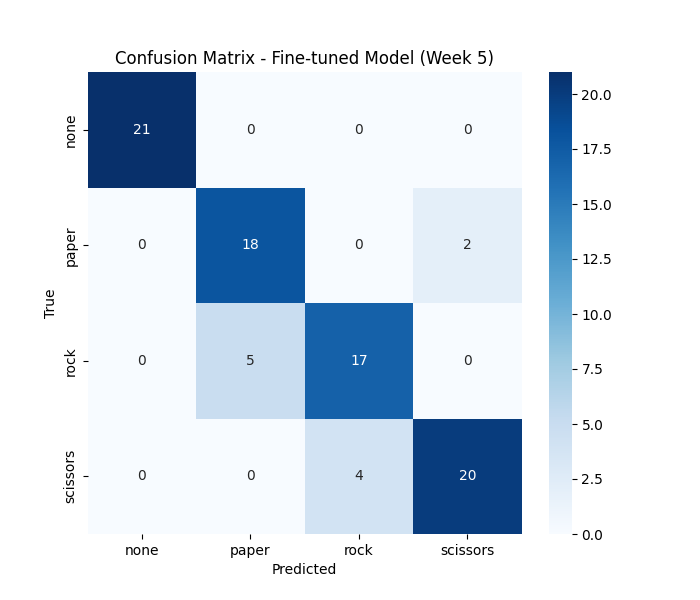
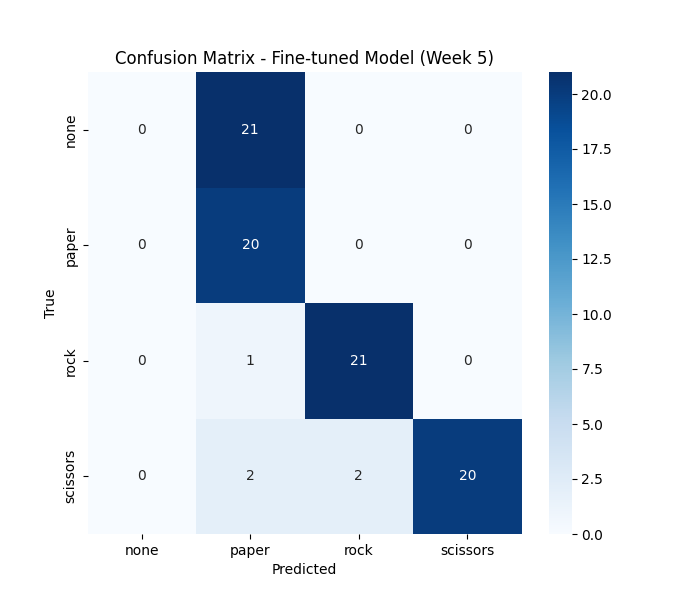
changes

Changed region(s): [[0.12, 0.12, 0.6, 0.72], [0.66, 0.39, 0.69, 0.42], [0.51, 0.78, 0.54, 0.81]]

diff --git a/src/evaluate_model.py b/src/evaluate_model.py
@@ -36,11 +36,41 @@ print(report)
 #plotting confusion matrix
 cm = confusion_matrix(true_classes, predicted_classes)
 
-plt.figure(figsize=(7,6))
-sns.heatmap(cm, annot=True, fmt='d', cmap='Blues',
-            xticklabels=class_labels, yticklabels=class_labels)
+plt.figure(figsize=(7, 6))
+sns.heatmap(
+    cm,
+    annot=True,
+    fmt='d',
+    cmap='Blues',
+    xticklabels=class_labels,
+    yticklabels=class_labels
+)
 plt.title("Confusion Matrix - Fine-tuned Model (Week 5)")
 plt.xlabel("Predicted")
 plt.ylabel("True")
 plt.savefig("results/confusion_matrix_week5.png")
 plt.show()
+
+
+#per-class accuracy - shows how well each gesture is recognised
+class_accuracy = cm.diagonal() / cm.sum(axis=1)
+
+print("\nPer-Class Accuracy:")
+for label, acc in zip(class_labels, class_accuracy):
+    print(f"{label}: {acc:.2f}")
+
+#explicit misclassification counts - helps identify which classes are confused
+#https://www.enki.com/post/what-does-enumerate-mean-in-python#:~:text=The%20enumerate()%20function%20is,need%20to%20manually%20track%20indexes.
+print("\nMisclassification Analysis:")
+for i, true_label in enumerate(class_labels):
+    for j, pred_label in enumerate(class_labels):
+        if i != j and cm[i, j] > 0:
+            print(f"{true_label} misclassified as {pred_label}: {cm[i, j]} times")
+
+
+#confidence analysis (model uncertainty) - used to justify improvement strategies
+confidence_scores = np.max(predictions, axis=1)
+
+print("\nPrediction Confidence Analysis:")
+print("Average confidence:", np.mean(confidence_scores))
+print("Lowest confidence:", np.min(confidence_scores))
